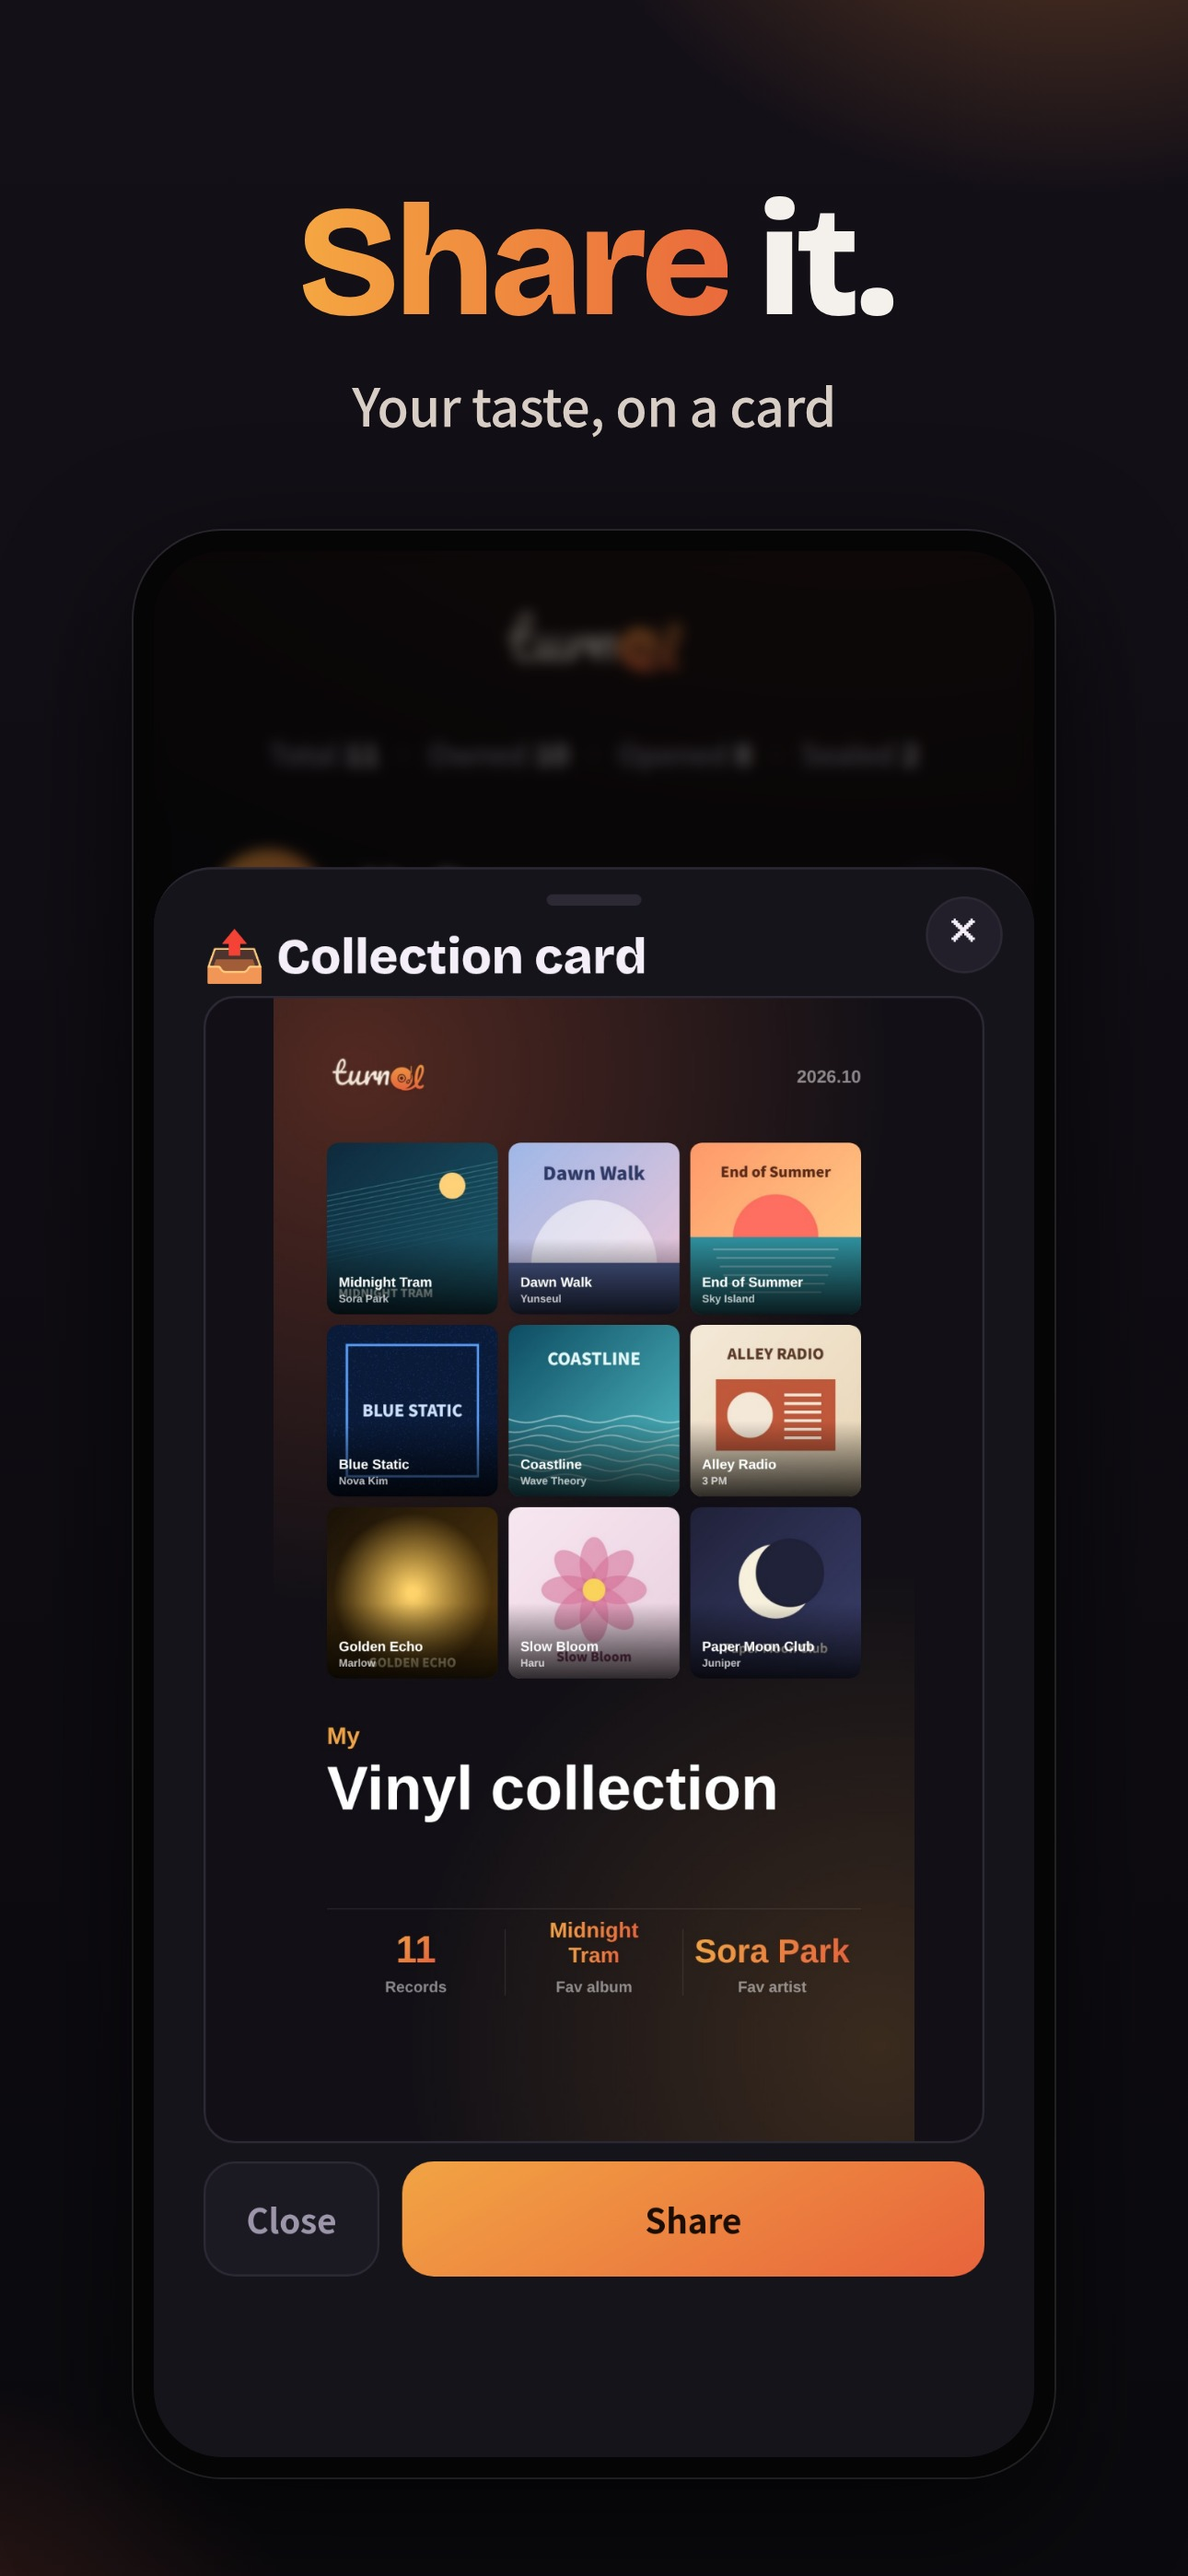
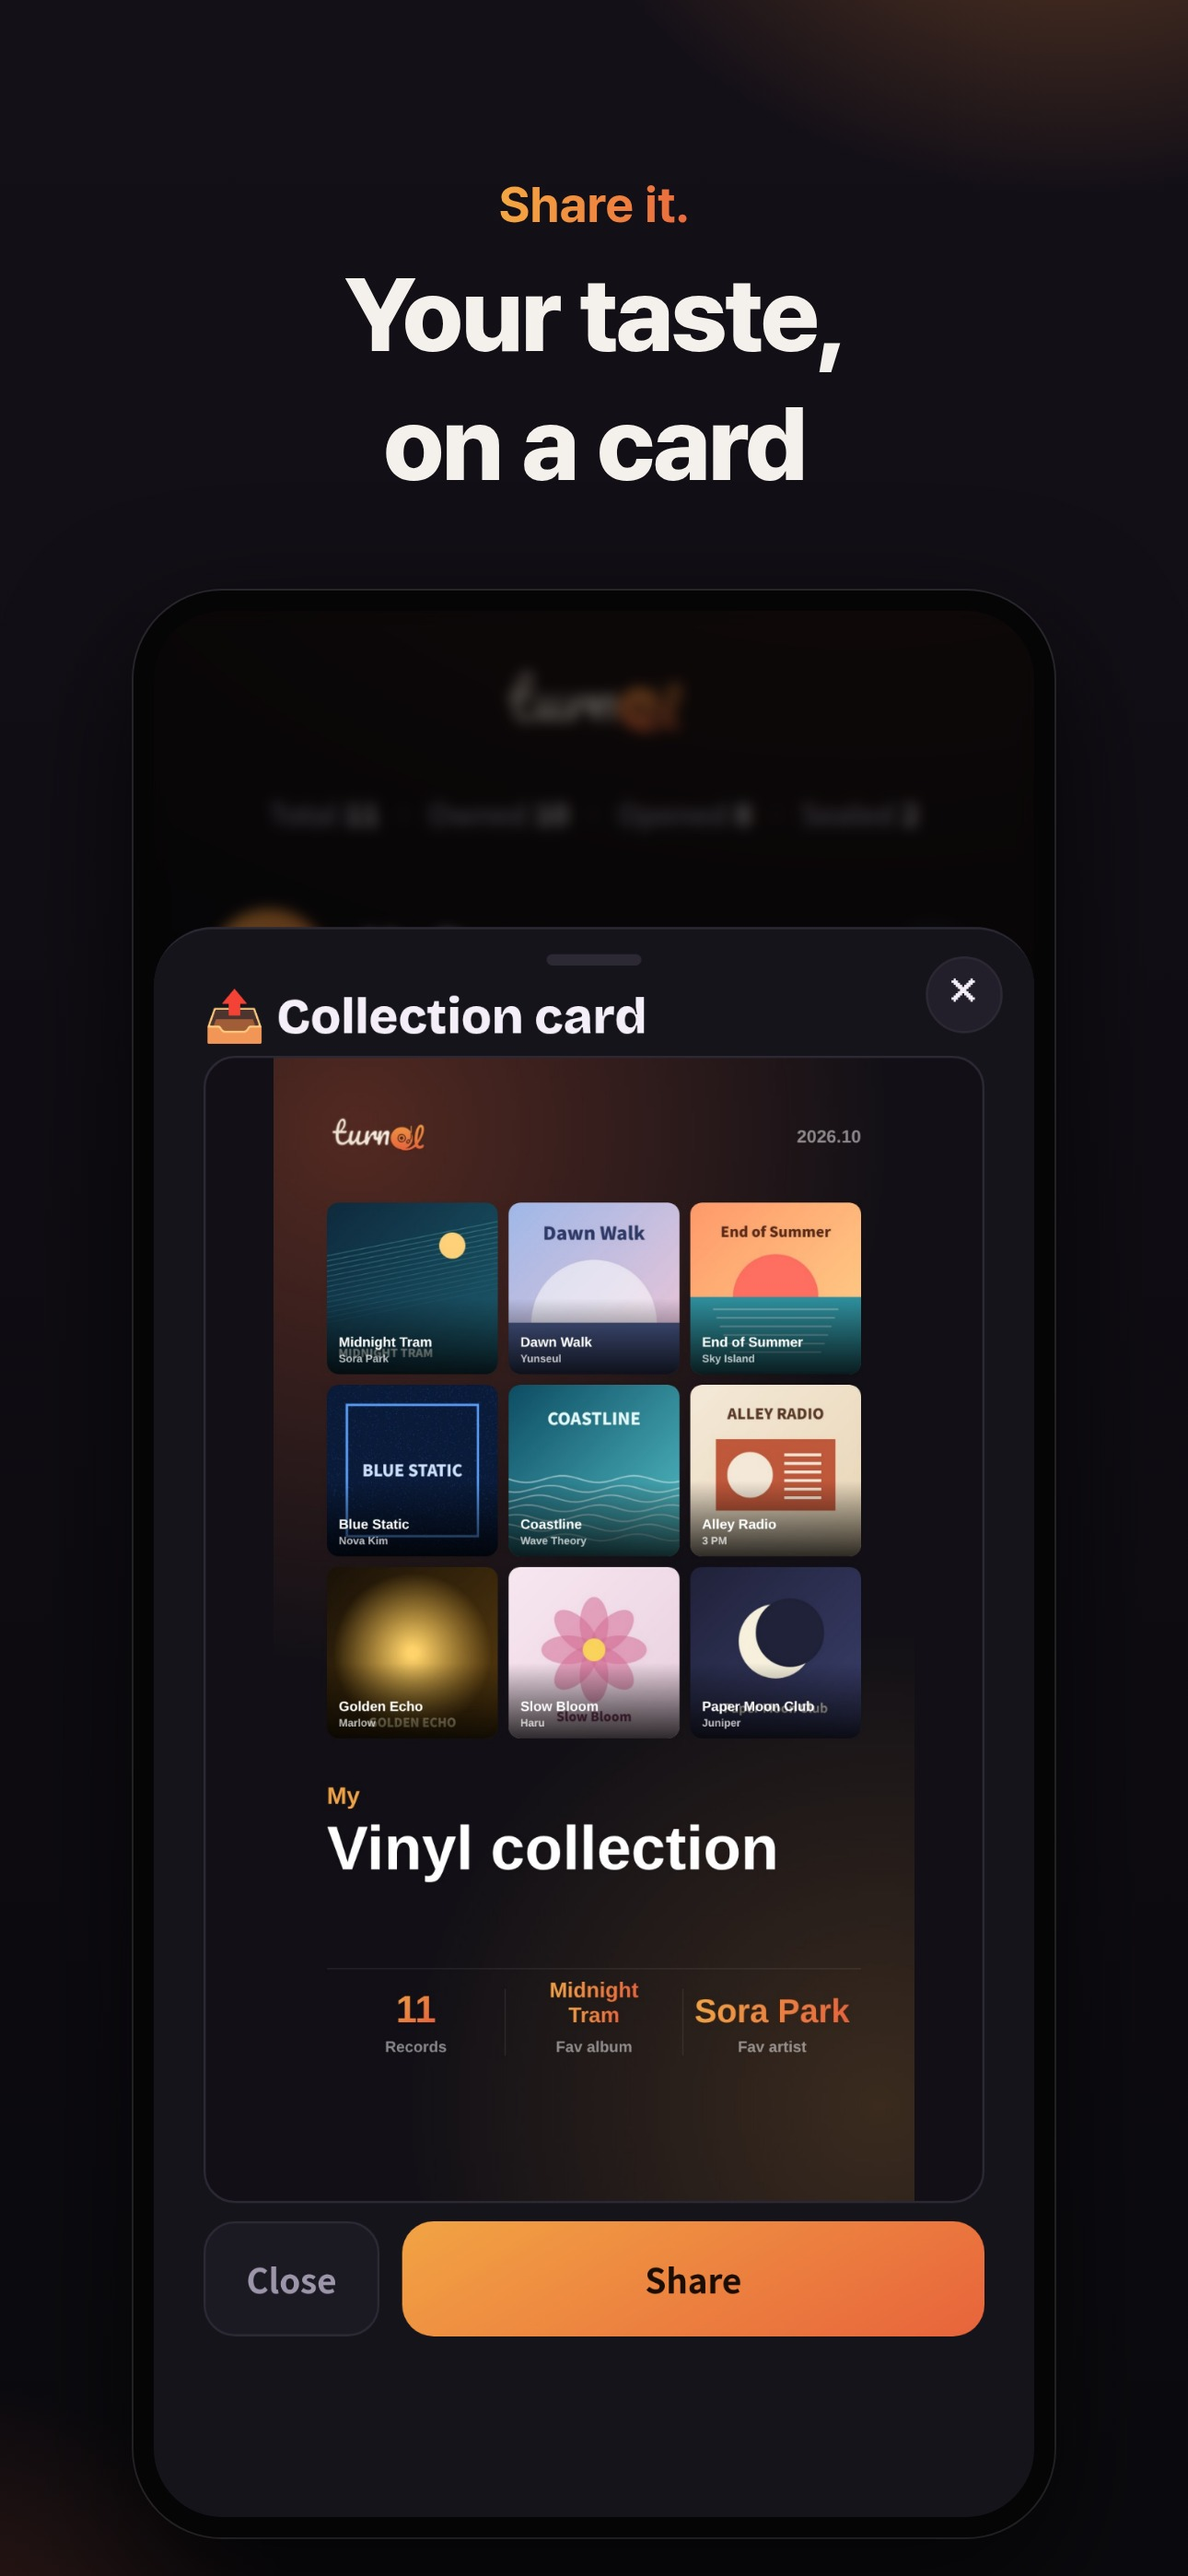
스토어 이미지: 한국어 메인 문구 + 'Turn it.' 보조 문구, 글꼴 Pretendard
Claude-Session: https://claude.ai/code/session_01RaKXDuWjQRYDcbkM1oTs7b

diff --git a/STORE.md b/STORE.md
@@ -21,20 +21,21 @@
 
 스크린샷 순서와 문구(한국어 / 영어):
 
-큰 영어 한 마디 + 작은 한 줄(한국어/영어) 구성입니다. 일곱 장 모두 "○○ it." 으로 끝나 앱 이름 **Turn it** 이 각인되도록 했습니다.
+메인 문구(크게, 한국어 스토어는 한국어 / 영어 스토어는 영어) 위에 작은 주황색 보조 문구 "○○ it." 을 붙였습니다.
+보조 문구가 일곱 장 모두 "○○ it." 으로 끝나 앱 이름 **Turn it** 이 자연스럽게 각인됩니다. 글꼴은 Pretendard.
 앱의 두 강점(손가락으로 돌려 듣기, 취향 카드 공유)은 1번과 5번에 두었습니다.
 
-| # | 큰 문구 | 작은 문구 (한국어 / 영어) | 화면 |
+| # | 보조 문구 | 메인 문구 (한국어 / 영어) | 화면 |
 |---|---|---|---|
-| 1 | **Turn** it. | 돌리면, 음악이 시작돼요 / Spin the disc, start the music | 카드에서 꺼낸 디스크 + 회전 표시 |
-| 2 | **Keep** it. | 모아온 바이닐을 한곳에 / Every record, one shelf | 보관함 |
-| 3 | **Find** it. | 검색 한 번이면 커버와 노래까지 / One search, cover and songs | 등록: 이 앨범이 맞나요? |
-| 4 | **Match** it. | 디스크 색까지 내 것 그대로 / Right down to your disc color | 등록: 디스크 컬러·투명도·RPM·인치 |
-| 5 | **Share** it. | 내 취향, 카드 한 장으로 / Your taste, on a card | 컬렉션 카드 공유 |
-| 6 | **Log** it. | 사고, 듣고, 달력에 남기고 / Every buy and spin, on a calendar | 달력 |
-| 7 | **Track** it. | 얼마나 모았는지 한눈에 / Your collection in numbers | 통계 |
+| 1 | Turn it. | 돌리면, 음악이 흘러요 / Spin the disc, hear the music | 카드에서 꺼낸 디스크 + 회전 표시 |
+| 2 | Keep it. | 모아온 바이닐을 한곳에 / Every record, one shelf | 보관함 |
+| 3 | Find it. | 검색 한 번이면 커버와 노래까지 / One search finds the cover and songs | 등록: 이 앨범이 맞나요? |
+| 4 | Match it. | 디스크 색까지 내 것 그대로 / Right down to your disc color | 등록: 디스크 컬러·투명도·RPM·인치 |
+| 5 | Share it. | 내 취향을 카드 한 장으로 / Your taste, on a card | 컬렉션 카드 공유 |
+| 6 | Log it. | 사고, 듣고, 달력에 남기고 / Every buy and spin, on a calendar | 달력 |
+| 7 | Track it. | 얼마나 모았는지 한눈에 / Your collection in numbers | 통계 |
 
-그래픽 이미지: **Turn it. Hear it.** + 돌려 듣는 내 바이닐 보관함 / Your vinyl collection, ready to spin
+그래픽 이미지: 보조 문구 **Turn it. Hear it.** + 메인 문구 돌려 듣는 내 바이닐 보관함 / Your vinyl, ready to spin
 
 - 스크린샷 속 앨범은 모두 **가상의 앨범과 직접 그린 커버**입니다(실제 앨범 아트 저작권 문제 방지).
 - 다시 만들 때는 같은 데모 데이터로 앱을 띄워 캡처한 뒤 문구를 얹었습니다. 화면이 바뀌면 다시 만들어 주세요.
@@ -66,8 +67,8 @@ Turnit — 내 바이닐 보관함
 
 ### 긴 설명 (4000자)
 ```
-🎵 Turn it. Hear it.
-돌려 듣는 내 바이닐 보관함, Turnit
+🎵 돌려 듣는 내 바이닐 보관함, Turnit
+Turn it. Hear it.
 
 모아온 바이닐을 한 곳에 예쁘게 정리하고, 손가락으로 돌려 듣고, 내 취향을 친구에게 자랑해 보세요.
 
